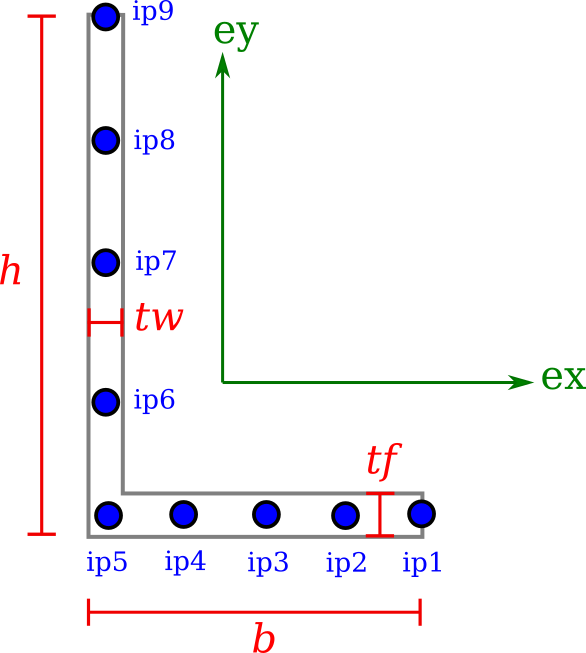
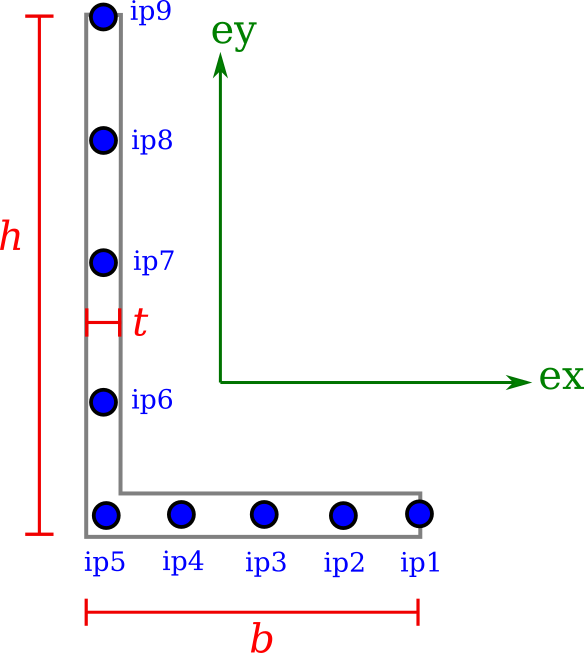
- Added more torsional constants J to sections. - Fixed angle section diagram.

diff --git a/src/compas_fea/structure/section.py b/src/compas_fea/structure/section.py
@@ -57,8 +57,9 @@ class AngleSection(object):
         A = t * (b + h - t)
         Ixx = (1. / 3) * (b * h**3 - (b - t) * (h - t)**3) - A * (h - yc)**2
         Iyy = (1. / 3) * (h * b**3 - (h - t) * (b - t)**3) - A * (b - xc)**2
+        J = (1. / 3) * (h + b - t) * t**3
         self.__name__ = 'AngleSection'
-        self.geometry = {'b': b, 'h': h, 't': t, 'A': A, 'Ixx': Ixx, 'Iyy': Iyy, 'Ixy': 0}
+        self.geometry = {'b': b, 'h': h, 't': t, 'A': A, 'J': J, 'Ixx': Ixx, 'Iyy': Iyy, 'Ixy': 0}
         self.name = name
 
 
@@ -81,8 +82,11 @@ class BoxSection(object):
         A = b * h - (b - 2 * tw) * (h - 2 * tf)
         Ixx = (b * h**3) / 12. - ((b - 2 * tw) * (h - 2 * tf)**3) / 12.
         Iyy = (h * b**3) / 12. - ((h - 2 * tf) * (b - 2 * tw)**3) / 12.
+        Ap = (h - tf) * (b - tw)
+        p = 2 * ((h - tf) / tw + (b - tw) / tf)
+        J = 4 * (Ap**2) / p
         self.__name__ = 'BoxSection'
-        self.geometry = {'b': b, 'h': h, 'tw': tw, 'tf': tf, 'A': A, 'Ixx': Ixx, 'Iyy': Iyy, 'Ixy': 0}
+        self.geometry = {'b': b, 'h': h, 'tw': tw, 'tf': tf, 'A': A, 'J': J, 'Ixx': Ixx, 'Iyy': Iyy, 'Ixy': 0}
         self.name = name
 
 
@@ -152,8 +156,10 @@ class ISection(object):
         A = 2 * b * tf + (h - 2 * tf) * tw
         Ixx = (tw * (h - 2 * tf)**3) / 12. + 2 * ((tf**3) * b / 12. + b * tf * (h / 2. - tf / 2.)**2)
         Iyy = ((h - 2 * tf) * tw**3) / 12. + 2 * ((b**3) * tf / 12.)
+        J = (1. / 3) * (2 * b * tf**3 + (h - tf) * tw**3)
         self.__name__ = 'ISection'
-        self.geometry = {'b': b, 'h': h, 'tw': tw, 'tf': tf, 'c': h / 2., 'A': A, 'Ixx': Ixx, 'Iyy': Iyy, 'Ixy': 0}
+        self.geometry = {
+            'b': b, 'h': h, 'tw': tw, 'tf': tf, 'c': h / 2., 'A': A, 'J': J, 'Ixx': Ixx, 'Iyy': Iyy, 'Ixy': 0}
         self.name = name
 
 
@@ -198,8 +204,11 @@ class RectangularSection(object):
         A = b * h
         Ixx = (1 / 12.) * b * h**3
         Iyy = (1 / 12.) * h * b**3
+        l1 = max([b, h])
+        l2 = min([b, h])
+        J = (l1 * l2**3) * (0.33333 - 0.21 * (l2 / l1) * (1 - (l2**4) / (12 * l1**4)))
         self.__name__ = 'RectangularSection'
-        self.geometry = {'b': b, 'h': h, 'A': A, 'Ixx': Ixx, 'Iyy': Iyy, 'Ixy': 0}
+        self.geometry = {'b': b, 'h': h, 'A': A, 'J': J, 'Ixx': Ixx, 'Iyy': Iyy, 'Ixy': 0}
         self.name = name
 
 

diff --git a/docs/.source/tutorial/06_sections.rst b/docs/.source/tutorial/06_sections.rst
@@ -108,13 +108,13 @@ An **ISection** requires the width ``b``, height ``h``, thickness of web ``tw`` 
 Angle
 -----
 
-An unequal **AngleSection** requires the width ``b``, height ``h``, thickness of web ``tw`` and thickness of flange ``tf``.
+An unequal **AngleSection** requires the width ``b``, height ``h`` and thickness ``t``.
 
 .. code-block:: python
 
     from compas_fea.structure import AngleSection
 
-    mdl.add_section(AngleSection(name='sec_angle', b=0.1, h=0.2, tw=0.003, tf=0.005))
+    mdl.add_section(AngleSection(name='sec_angle', b=0.1, h=0.2, t=0.003))
 
 .. image:: /_images/angle-ip.png
    :scale: 40 %
